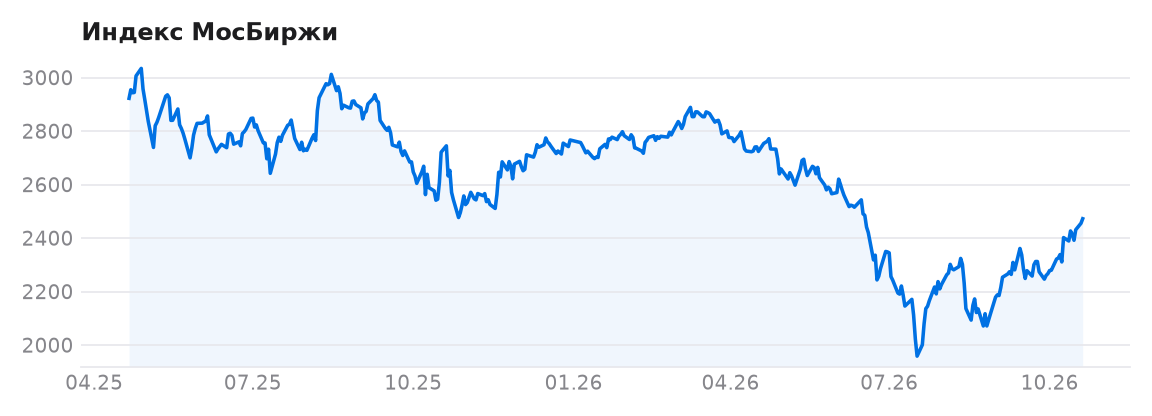
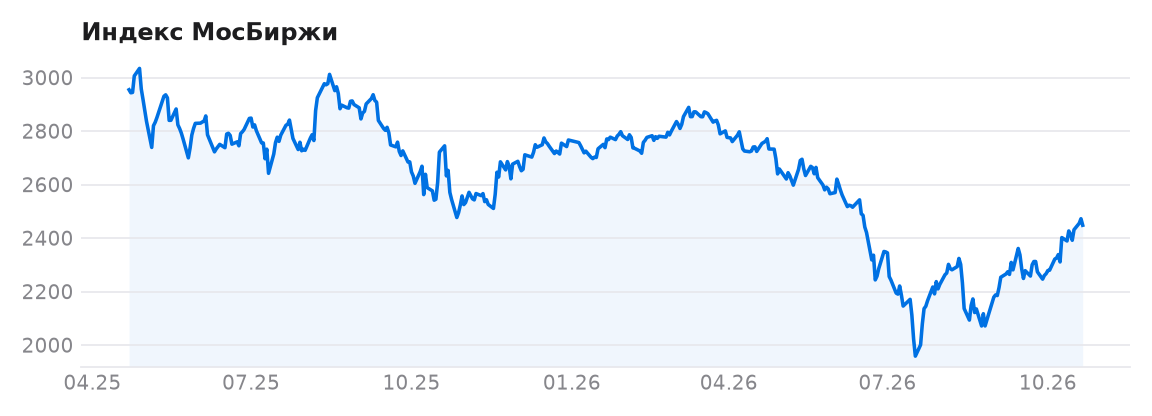
data: обновление 2026-10-22

diff --git a/README.md b/README.md
@@ -7,17 +7,17 @@
 Руками здесь ничего не обновляется: таблица и графики ниже собраны роботом.
 
 <!-- PULSE:START -->
-*Последние торги: 20.10.2026. Обновляется автоматически каждую ночь.*
+*Последние торги: 21.10.2026. Обновляется автоматически каждую ночь.*
 
 | | Значение | За день | За месяц | С начала года |
 |---|---:|---:|---:|---:|
-| Индекс МосБиржи | 2 472 | +0,7% | +8,5% | −10,6% |
-| Индекс гособлигаций RGBI | 111,68 | −0,0% | −1,1% | −5,4% |
-| Юань | 12,35 ₽ | −0,6% | −1,9% | +9,9% |
-| Сбербанк | 293,45 ₽ | +0,9% | +6,0% | −2,2% |
-| Т-Технологии | 273,12 ₽ | +0,3% | +7,8% | −16,7% |
-| ВТБ | 57,62 ₽ | +1,6% | +14,9% | −20,2% |
-| Мосбиржа | 156,76 ₽ | +0,2% | +6,0% | −9,5% |
+| Индекс МосБиржи | 2 448 | −1,0% | +8,4% | −11,5% |
+| Индекс гособлигаций RGBI | 112,10 | +0,4% | −0,5% | −5,1% |
+| Юань | 12,23 ₽ | −1,0% | −2,2% | +8,9% |
+| Сбербанк | 291,62 ₽ | −0,6% | +5,2% | −2,8% |
+| Т-Технологии | 270,40 ₽ | −1,0% | +5,8% | −17,6% |
+| ВТБ | 57,08 ₽ | −1,0% | +13,7% | −21,0% |
+| Мосбиржа | 155,28 ₽ | −0,9% | +5,8% | −10,4% |
 
 Цены акций скорректированы на корпоративные события: Т-Технологии — сплит 10:1 (17.04.2026); ВТБ — консолидация 1:5000 (15.07.2024).
 
